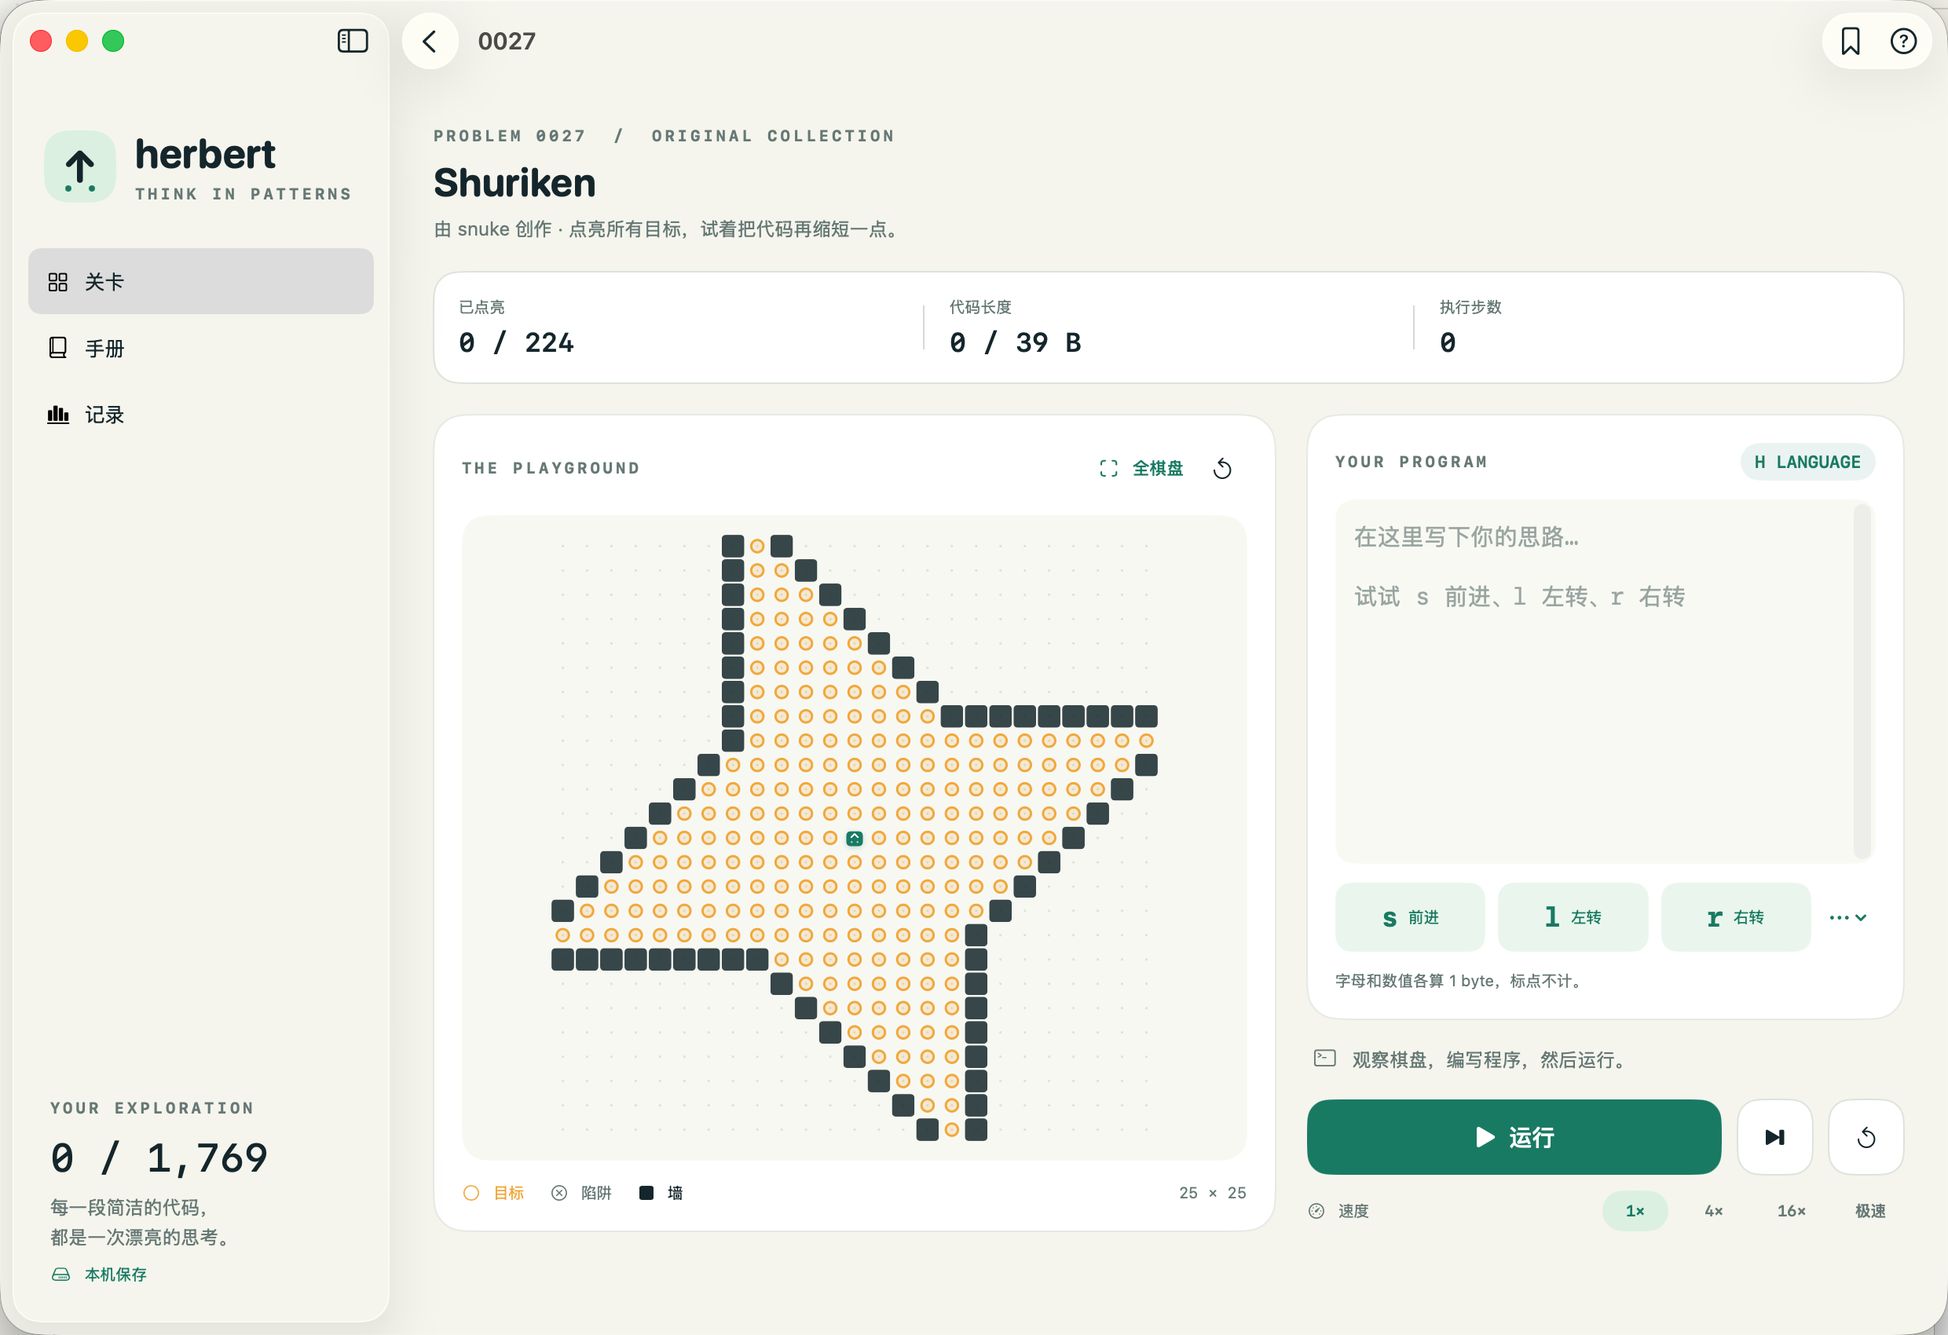
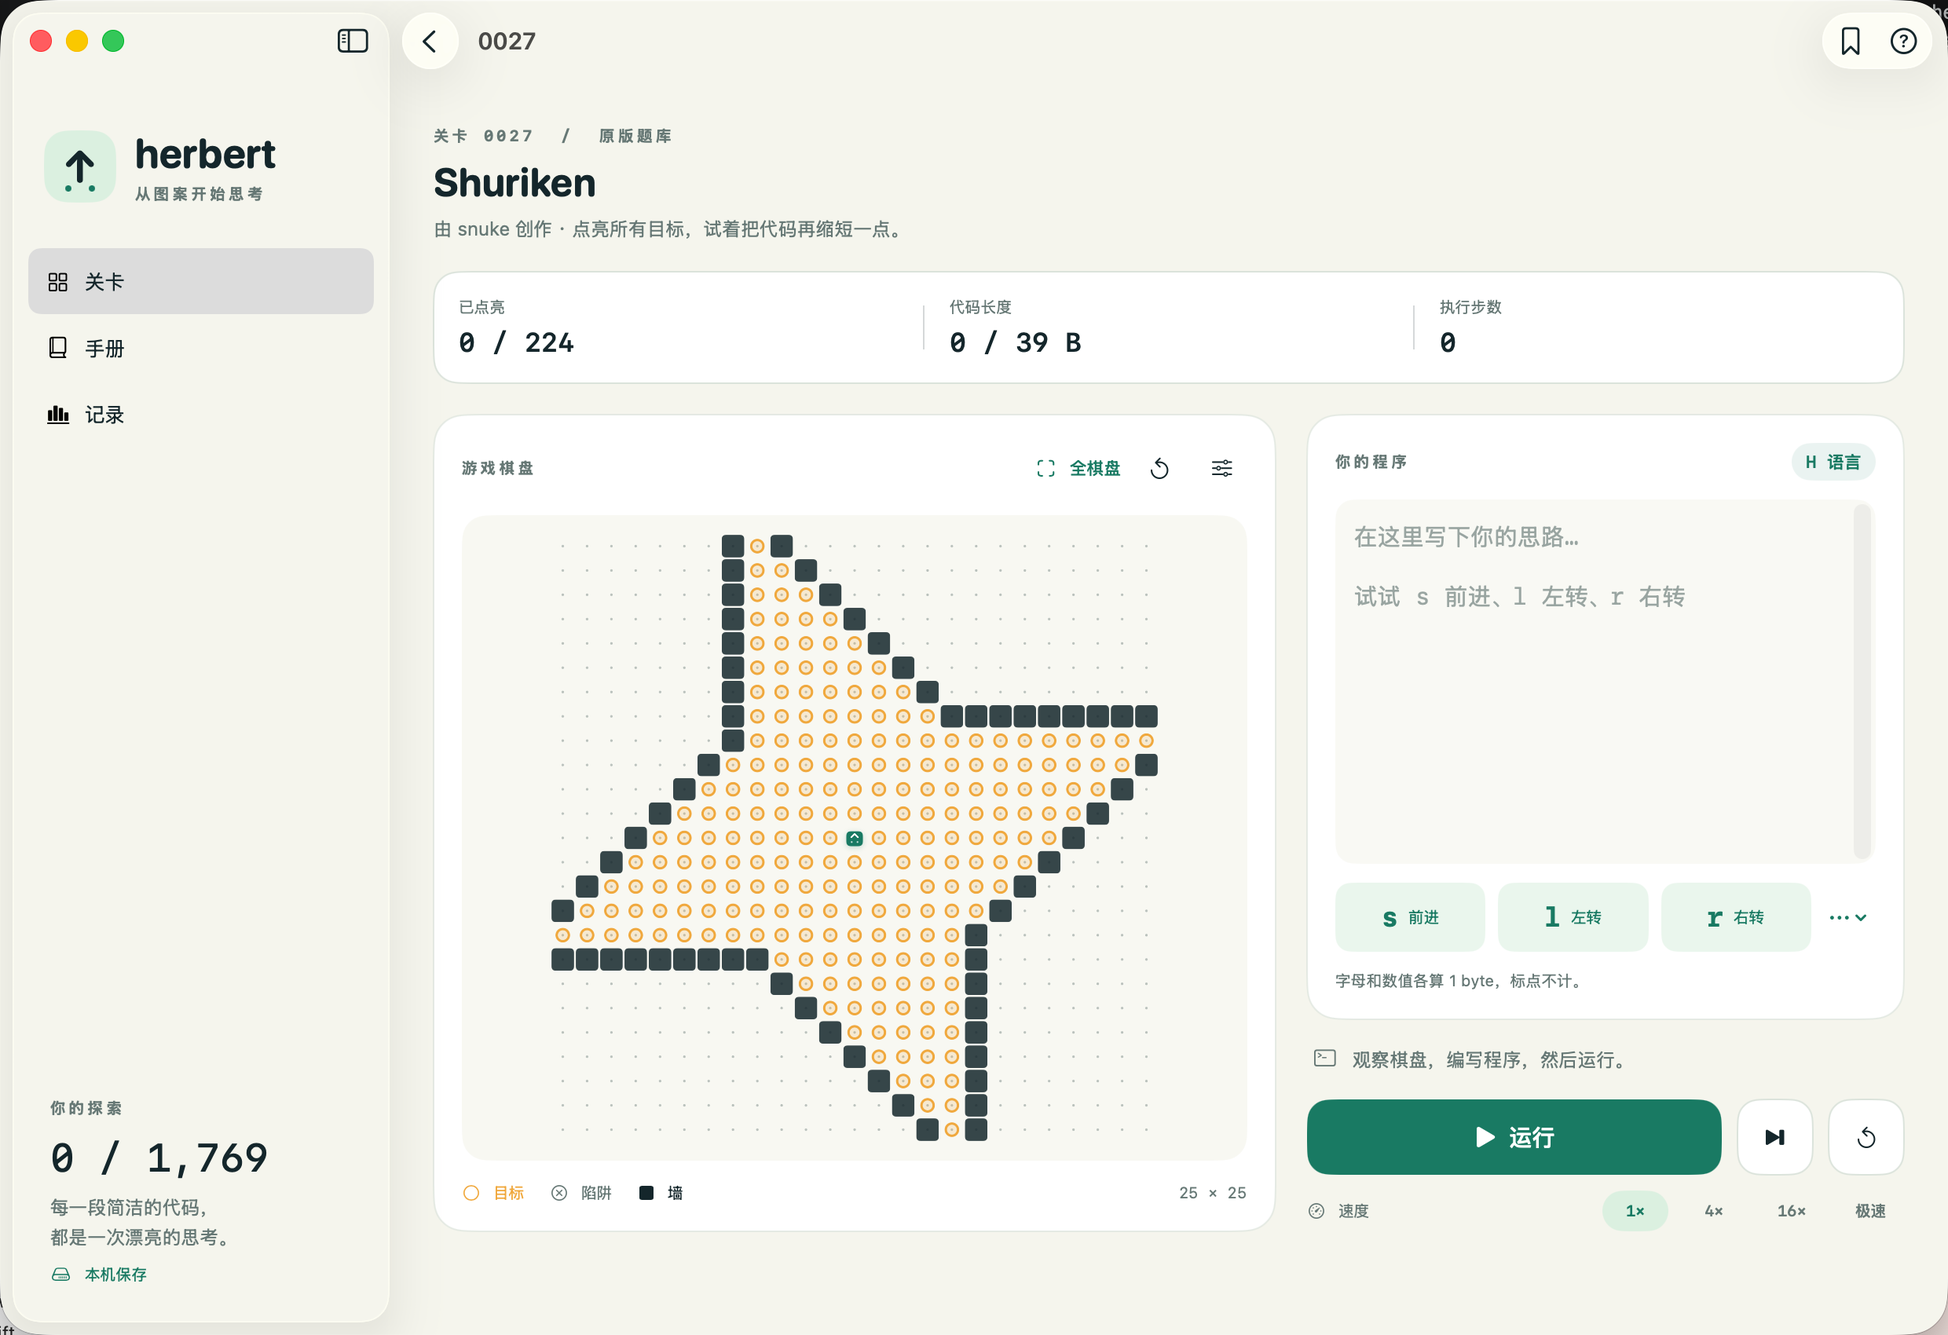
docs: showcase localized boards and movement trails
Refresh actual native screenshots and document language matching, Classic style, and persistent board display options.

AI-model: gpt-6

diff --git a/HerbertUITests/HerbertUITests.swift b/HerbertUITests/HerbertUITests.swift
@@ -93,11 +93,7 @@ final class HerbertUITests: XCTestCase {
         XCTAssertTrue(boardToggle("show-trail", in: app).waitForExistence(timeout: 5))
         boardToggle("show-trail", in: app).activateControl()
         boardToggle("show-grid-dots", in: app).activateControl()
-        #if os(macOS)
-            app.radioButtons["Classic"].activateControl()
-        #else
-            app.buttons["Classic"].activateControl()
-        #endif
+        selectBoardStyle("classic", in: app)
         app.buttons["close-board-options"].activateControl()
         for _ in 0..<3 { app.buttons["step-program"].activateControl() }
         XCTAssertTrue(board.label.contains("Classic; grid dots off; trail off; 0"), board.debugDescription)
@@ -136,7 +132,7 @@ final class HerbertUITests: XCTestCase {
             if id == 37 {
                 let code = app.textViews["code-editor"]
                 code.activateControl()
-                code.typeText("a(4)\na(X):sa(X-1)")
+                code.typeText("a(X):sa(X-1)\na(4)")
             }
             capture(app, name: name)
             let board = app.descendants(matching: .any)["game-board"].firstMatch
@@ -146,10 +142,36 @@ final class HerbertUITests: XCTestCase {
             image.name = "readme-\(name)-board"
             image.lifetime = .keepAlways
             add(image)
+            if id == 37 {
+                for _ in 0..<4 { app.buttons["step-program"].activateControl() }
+                app.buttons["board-options"].activateControl()
+                selectBoardStyle("classic", in: app)
+                app.buttons["close-board-options"].activateControl()
+                XCTAssertTrue(app.popovers.firstMatch.waitForNonExistence(timeout: 5))
+                app.textViews["code-editor"].activateControl()
+                capture(app, name: "flower-classic")
+                app.activate()
+                let classic = XCTAttachment(screenshot: board.screenshot())
+                classic.name = "readme-flower-classic-board"
+                classic.lifetime = .keepAlways
+                add(classic)
+                app.buttons["board-options"].activateControl()
+                selectBoardStyle("modern", in: app)
+                app.buttons["close-board-options"].activateControl()
+            }
             app.buttons["返回"].activateControl()
             XCTAssertTrue(search.waitForExistence(timeout: 5))
             app.buttons["clear-search"].activateControl()
         }
+    }
+
+    @MainActor
+    private func selectBoardStyle(_ style: String, in app: XCUIApplication) {
+        #if os(macOS)
+            app.radioButtons["board-style-\(style)"].activateControl()
+        #else
+            app.buttons["board-style-\(style)"].activateControl()
+        #endif
     }
 
     @MainActor

diff --git a/README.zh-CN.md b/README.zh-CN.md
@@ -11,10 +11,18 @@
 | [![Flower 棋盘](docs/screenshots/flower-board.png)](docs/screenshots/flower.png) | [![Shuriken 棋盘](docs/screenshots/shuriken-board.png)](docs/screenshots/shuriken.png) | [![Butterfly 棋盘](docs/screenshots/butterfly-board.png)](docs/screenshots/butterfly.png) |
 | nai · ≤ 20 bytes | snuke · ≤ 39 bytes | nadsuki · ≤ 27 bytes |
 
-截图来自运行中的 App；点击棋盘查看完整界面。当前为 **0.1.0 预览版**，界面为简体中文。
+截图来自运行中的 App；点击棋盘查看完整界面。最近发布为 **0.1.0 预览版**；当前 main 开发版界面会自动匹配系统的中文、英文或日文语言偏好，其他语言回退至英文。
 
 
 用最短的 H 语言程序，带 Herbert 点亮所有目标。原生 SwiftUI 游戏，共用一个与界面无关的游戏引擎，支持 **iPhone / iPad（iOS 17+）和原生 Mac（macOS 14+）**。
+
+## 棋盘风格
+
+| 现代风格（默认） | Classic 经典风格与轨迹 |
+| --- | --- |
+| [![现代 Flower 棋盘](docs/screenshots/flower-board.png)](docs/screenshots/flower.png) | [![经典 Flower 棋盘与蓝色运动轨迹](docs/screenshots/flower-classic-board.png)](docs/screenshots/flower-classic.png) |
+
+两张均为实际 App 截图。经典风格参考原站规则页中的棋盘；示例执行了四条指令，只有实际移动才会留下轨迹。棋盘右上角的滑杆图标可设置风格、网格点和运动轨迹。新增功能目前位于 main，将纳入下一版本。
 
 ## 运行
 
@@ -51,9 +59,12 @@ xcodebuild -project Herbert.xcodeproj -scheme Herbert -destination 'platform=mac
 - 离线原版题库：保留编号、标题、作者、长度限制、原站最短记录快照、数据校验摘要与来源；数量和缺失项以 `docs/problem-import-manifest.json` 为准。
 - 手机上下布局与固定运行栏；iPad/Mac 并排棋盘和编辑器；原生可选中文本编辑器、光标处插入指令、更多符号、代码模板、单步、暂停/继续、重置、4 档速度、触觉反馈。
 - 有内容区域自动聚焦、完整棋盘切换、双指缩放和放大后拖动。颜色配合目标环、陷阱叉与墙形状区分元素，支持 VoiceOver 棋盘状态描述。
-- 关卡搜索、入门/收藏/完成筛选、继续最近关卡、中文分步玩法手册。
+- 关卡搜索、入门/收藏/完成筛选、继续最近关卡、中英日分步玩法手册。
 - 当前快照包含 **1,769 个可玩关卡**，来源列表全部 21 页，最后原版编号 2077；排除 0000 空占位项，缺失项为零。
 - 自动保存草稿、收藏、最短解与完成日期；本地 JSON 原子写入；损坏存档暂停自动写入，避免覆盖原文件；JSON 备份导入/导出，导入前重放并校验解法，合并时保留更短的有效解。
+- 中英日自动匹配：覆盖导航、玩法手册、无障碍描述和 H 语言错误提示；保留关卡原始名称和作者。
+- 棋盘右上角设置支持现代（默认）/ Classic 经典风格、显示网格点、显示运动轨迹；偏好保存在本机，切换关卡和重启后保留。
+- 轨迹记录当前运行走过的路径，单步和极速均完整记录；隐藏后继续记录，重新显示即可查看，重置棋盘或修改代码会清空。
 - 切到后台自动暂停执行并保存；Mac 支持 `⌘ Return` 运行/暂停。
 
 ## 结构
@@ -95,7 +106,7 @@ python3 scripts/import_problems.py
 
 ## 参与贡献
 
-欢迎错误报告、英文界面本地化、无障碍改进和 iPhone/iPad 真机测试。请阅读
+欢迎错误报告、翻译改进、无障碍改进和 iPhone/iPad 真机测试。请阅读
 [贡献指南](CONTRIBUTING.md)、[社区行为准则](CODE_OF_CONDUCT.md) 和 [安全策略](SECURITY.md)。
 CI 执行格式检查、单元/集成测试和 Mac/iOS 编译；原生界面测试需要交互式 Mac 桌面。
 运行 `scripts/capture_screenshots.sh` 可重新生成 README 的真实界面截图。

diff --git a/README.md b/README.md
@@ -24,7 +24,9 @@ has a separate, unconfirmed licensing status explained in [NOTICE.md](NOTICE.md)
 ![Herbert running natively on macOS: Flower with the board, H editor, and execution controls](docs/screenshots/flower.png)
 
 *Actual native macOS app, showing #0037 “Flower” by nai. The editor contains a starter
-program, not a solution to this puzzle. The current app interface is Simplified Chinese.*
+program, not a solution to this puzzle. The app automatically matches English, Simplified Chinese, or Japanese to your preferred language; other languages fall back to English.*
+
+*Language and board options are available on `main` and will be included in the next release.*
 
 ## Patterns worth exploring
 
@@ -46,6 +48,20 @@ rewards recognizing a pattern before writing a program. Search these IDs in the 
 
 *These are board screenshots from the running app. Click a board to see its full game screen.*
 
+## Modern or Classic
+
+<table>
+  <tr>
+    <td align="center"><a href="docs/screenshots/flower.png"><img src="docs/screenshots/flower-board.png" width="380" alt="Modern Flower board with mint robot and amber targets"></a></td>
+    <td align="center"><a href="docs/screenshots/flower-classic.png"><img src="docs/screenshots/flower-classic-board.png" width="380" alt="Classic Flower board with black walls, white targets, red robot and blue trail"></a></td>
+  </tr>
+  <tr><td align="center">Modern · default</td><td align="center">Classic · movement trail</td></tr>
+</table>
+
+*Both are actual app captures of #0037. Classic follows the original rules-page board
+appearance. Its screenshot follows four instructions; only successful moves leave a trail.
+Use the sliders button above the board to change style, grid dots, and trail visibility.*
+
 <details>
 <summary>Explore the problem library</summary>
 
@@ -60,7 +76,14 @@ rewards recognizing a pattern before writing a program. Search these IDs in the 
 - **Think in H.** Use `s`, `l`, and `r`, then build single-letter procedures, numeric and
   command parameters, and recursive programs. Original byte-counting rules are preserved.
 - **Watch your idea unfold.** Run, pause, reset, or single-step. Change speed, zoom the board,
-  and switch between the full 25 × 25 grid and its occupied region.
+  and switch between the full 25 × 25 grid and its occupied region. See the robot’s complete
+  movement trail, including at Turbo speed.
+- **Make the board yours.** Open the sliders button above the board to choose Modern
+  (default) or Classic, show/hide grid dots for counting cells, and toggle the movement
+  trail. Preferences stay on this device. Resetting or editing code clears the trail;
+  hiding it keeps recording.
+- **Play in your language.** English, Simplified Chinese, and Japanese cover navigation,
+  the guide, accessibility, and interpreter errors. Original puzzle titles/authors are preserved.
 - **Use a layout that fits.** Stacked board and editor on phones; side-by-side play on iPad
   and Mac. Native text editing, cursor-aware command buttons, and `⌘ Return` on Mac.
 - **Keep your progress.** Drafts, favorites, and shortest solutions save locally. Export JSON
@@ -155,7 +178,7 @@ to start. For feature ideas, open an issue before a large implementation.
 ### Next steps
 
 - Test and refine phone keyboard, rotation, touch, and accessibility behavior on devices.
-- Add English UI localization while preserving original puzzle titles and author credits.
+- Refine English/Japanese translations while preserving original puzzle titles and author credits.
 - Expand H compatibility fixtures and make execution easier to inspect.
 - Resolve original problem redistribution permissions before an App Store release.
 - Add optional authenticated cloud sync while keeping offline play first.

diff --git a/docs/verification.md b/docs/verification.md
@@ -2,6 +2,18 @@
 
 日期：2026-10-07（Asia/Shanghai）。环境：Apple Silicon Mac，Xcode 27.0，Swift 6.4。未使用第三方依赖。
 
+## 本轮多语言与棋盘更新
+
+- `scripts/check.sh`：23 项 Swift 单元/集成测试、5 项 Python 导入器/翻译检查和严格格式检查全部通过。
+- 中英日自动匹配，英文回退、错误参数格式、翻译键完整性均已覆盖。
+- `.build/feature-complete.xcresult`：6 项原生 Mac UI 用例全部通过，覆盖英文/日文界面与解释器错误、中文解题流程、轨迹隐藏后继续记录、Classic/网格点切换与重启后的偏好恢复。截图用例在本次明确启用。
+- 轨迹测试覆盖转向、墙/边界阻挡、陷阱、暂停、新运行清空、批量执行，以及重复 60,000 条指令仅保存一条重复边的内存边界。
+- iPhone/iPad 最终无签名编译通过；Mac Release 构建通过，二进制包含 arm64 和 x86_64。
+- README 更新 9 张实际 Mac App 截图，包括 Classic 与蓝色轨迹；截图用例使用合法的 H 过程声明顺序，等待设置弹层消失后捕获。
+- UI 测试同时隔离进度文件与偏好设置，避免改写正常用户配置。仍未安装 iOS Simulator runtime，本轮没有 iPhone/iPad 运行时验证。
+
+以下为 0.1.0 首次发布时的历史验证记录。
+
 | 项目 | 实际结果 |
 | --- | --- |
 | 公开题库导入 | 21 页，1769 个可玩关卡，1769 个唯一 ID，范围 1–2077，缺失/错误为零；排除 0 / Null |

diff --git a/docs/screenshots/README.md b/docs/screenshots/README.md
@@ -8,15 +8,17 @@ renderer, mockup, or image generator.
 | Image | Original problem | Author | Byte limit |
 | --- | --- | --- | --- |
 | `library.png` | Problem library | Various; credited in app | — |
-| `flower.png`, `flower-board.png` | 0037 · Flower | nai | 20 |
+| `flower.png`, `flower-board.png`, `flower-classic.png`, `flower-classic-board.png` | 0037 · Flower | nai | 20 |
 | `shuriken.png`, `shuriken-board.png` | 0027 · Shuriken | snuke | 39 |
 | `butterfly.png`, `butterfly-board.png` | 0361 · Butterfly | nadsuki | 27 |
 
-The Flower editor shows a starter program; it is not presented as a solution. Progress
+The Flower editor shows a valid starter program; it is not presented as a solution.
+The Classic capture follows four instructions (including blocked moves), with a blue
+trail for successful movement. Modern remains the default. Progress
 starts empty in a dedicated UI-test save file. Screenshots show the current Simplified
 Chinese UI. These are Mac screenshots, not evidence of iPhone/iPad runtime validation.
 
-Refresh with `scripts/capture_screenshots.sh` on an interactive Mac desktop. The test is
+Refresh with `scripts/capture_screenshots.sh` on an interactive Mac desktop. The test exports nine images and is
 opt-in and skipped during ordinary UI test runs. Review the images before committing;
 window size, system text rendering, and OS versions can change the output.
 

diff --git a/docs/architecture.md b/docs/architecture.md
@@ -41,3 +41,20 @@
 7. 在账号绑定和首轮上传前，展示具体数据范围；添加远端实现、模拟 HTTP 集成测试与网络中断/重试测试后再启用同步。
 
 如此升级时，棋盘、解释器和大部分 UI 无需更改；本地 v1 数据可通过一次明确迁移继续使用。
+
+## Board appearance and localization
+
+`GameSession.trail` records undirected edges only after a successful move. Turning and
+blocked moves add nothing; traps reset target states but preserve the trail. Preparing
+a new run clears it. A 25×25 board has at most 1,200 distinct edges, so recursive walks
+and Turbo batches cannot grow history without bound. Display toggles never affect execution.
+
+Board style, grid dots, and trail visibility use local UserDefaults, separate from puzzle
+progress and JSON backups. UI tests use an isolated preferences suite and progress file.
+Progress still goes through `ProgressRepository`; future cloud sync requires an authenticated
+Worker rather than client D1 credentials.
+
+One set of `Localizable.strings` resources is bundled in both the native app and HerbertCore.
+Foundation/SwiftUI match the system or per-app preferred language (en, zh-Hans, ja), with en
+as development-language fallback. `HerbertStrings` formats core diagnostics and dynamic
+labels; ordinary SwiftUI labels use native localization keys.

diff --git a/CONTRIBUTING.md b/CONTRIBUTING.md
@@ -82,9 +82,18 @@ Do not submit third-party content without its applicable permissions and attribu
 
 ## Places to start
 
-Look for `good first issue` and `help wanted`. English localization, better accessibility
+Look for `good first issue` and `help wanted`. Translation improvements, better accessibility
 labels, reproducible compatibility cases, and real iPhone/iPad test reports are useful.
 Ask in an issue before large architectural changes or new dependencies.
 
 Please follow our [code of conduct](CODE_OF_CONDUCT.md). Report vulnerabilities through
 the private channel described in [SECURITY.md](SECURITY.md).
+
+## Translations
+
+Edit `Sources/HerbertCore/Resources/{en,zh-Hans,ja}.lproj/Localizable.strings`. The app
+and core bundle use the same files so diagnostics and UI stay consistent. Keep keys
+and printf placeholders identical across languages. Use `LocalizedStringKey` for
+SwiftUI helper labels and `HerbertStrings.text` for dynamic strings and core errors.
+Run `scripts/check.sh`; native UI tests also exercise language matching via AppleLanguages.
+Original problem titles, authors, and H programs are not translated.

diff --git a/AGENTS.md b/AGENTS.md
@@ -12,3 +12,5 @@
 - README screenshots must be actual app captures. `scripts/capture_screenshots.sh` runs an opt-in native UI test and exports window/board attachments; ordinary UI runs skip that capture test. Keep original problem credits and the separate content licensing notice.
 - If SSH publishing stalls, pass the HTTPS repository URL directly to `git push` while retaining the saved SSH origin. `remote.<name>.url` accepts multiple values; a command-line `-c` addition can still leave a push using the configured SSH URL. Verify the published commit SHA afterward.
 - Native element screenshots can include other windows that cover the app even when window screenshots look correct. Activate the app immediately before each capture and inspect every exported image, especially board-only captures.
+
+- Native Mac Canvas can expose its descriptive state only through accessibility `label`; use that for board assertions. Rebuild in a fresh DerivedData directory if newly added Swift package localization files are absent from the embedded resource bundle.

diff --git a/CHANGELOG.md b/CHANGELOG.md
@@ -3,6 +3,17 @@
 This project follows semantic versioning. Versions below 1.0 are previews and may change
 save or API formats through documented migrations.
 
+## Unreleased
+
+### Added
+
+- Automatic English, Simplified Chinese, and Japanese localization, including guide,
+  accessibility descriptions, and interpreter/storage errors; English fallback.
+- Movement trails that retain every walked edge at all speeds, with bounded memory.
+- Classic board inspired by the original rules-page screenshot, alongside Modern (default).
+- Persistent board settings for style, movement trail, and per-cell grid dots.
+- Translation coverage/format checks and native UI tests for languages and preferences.
+
 ## [0.1.0] - 2026-10-07
 
 ### Added
